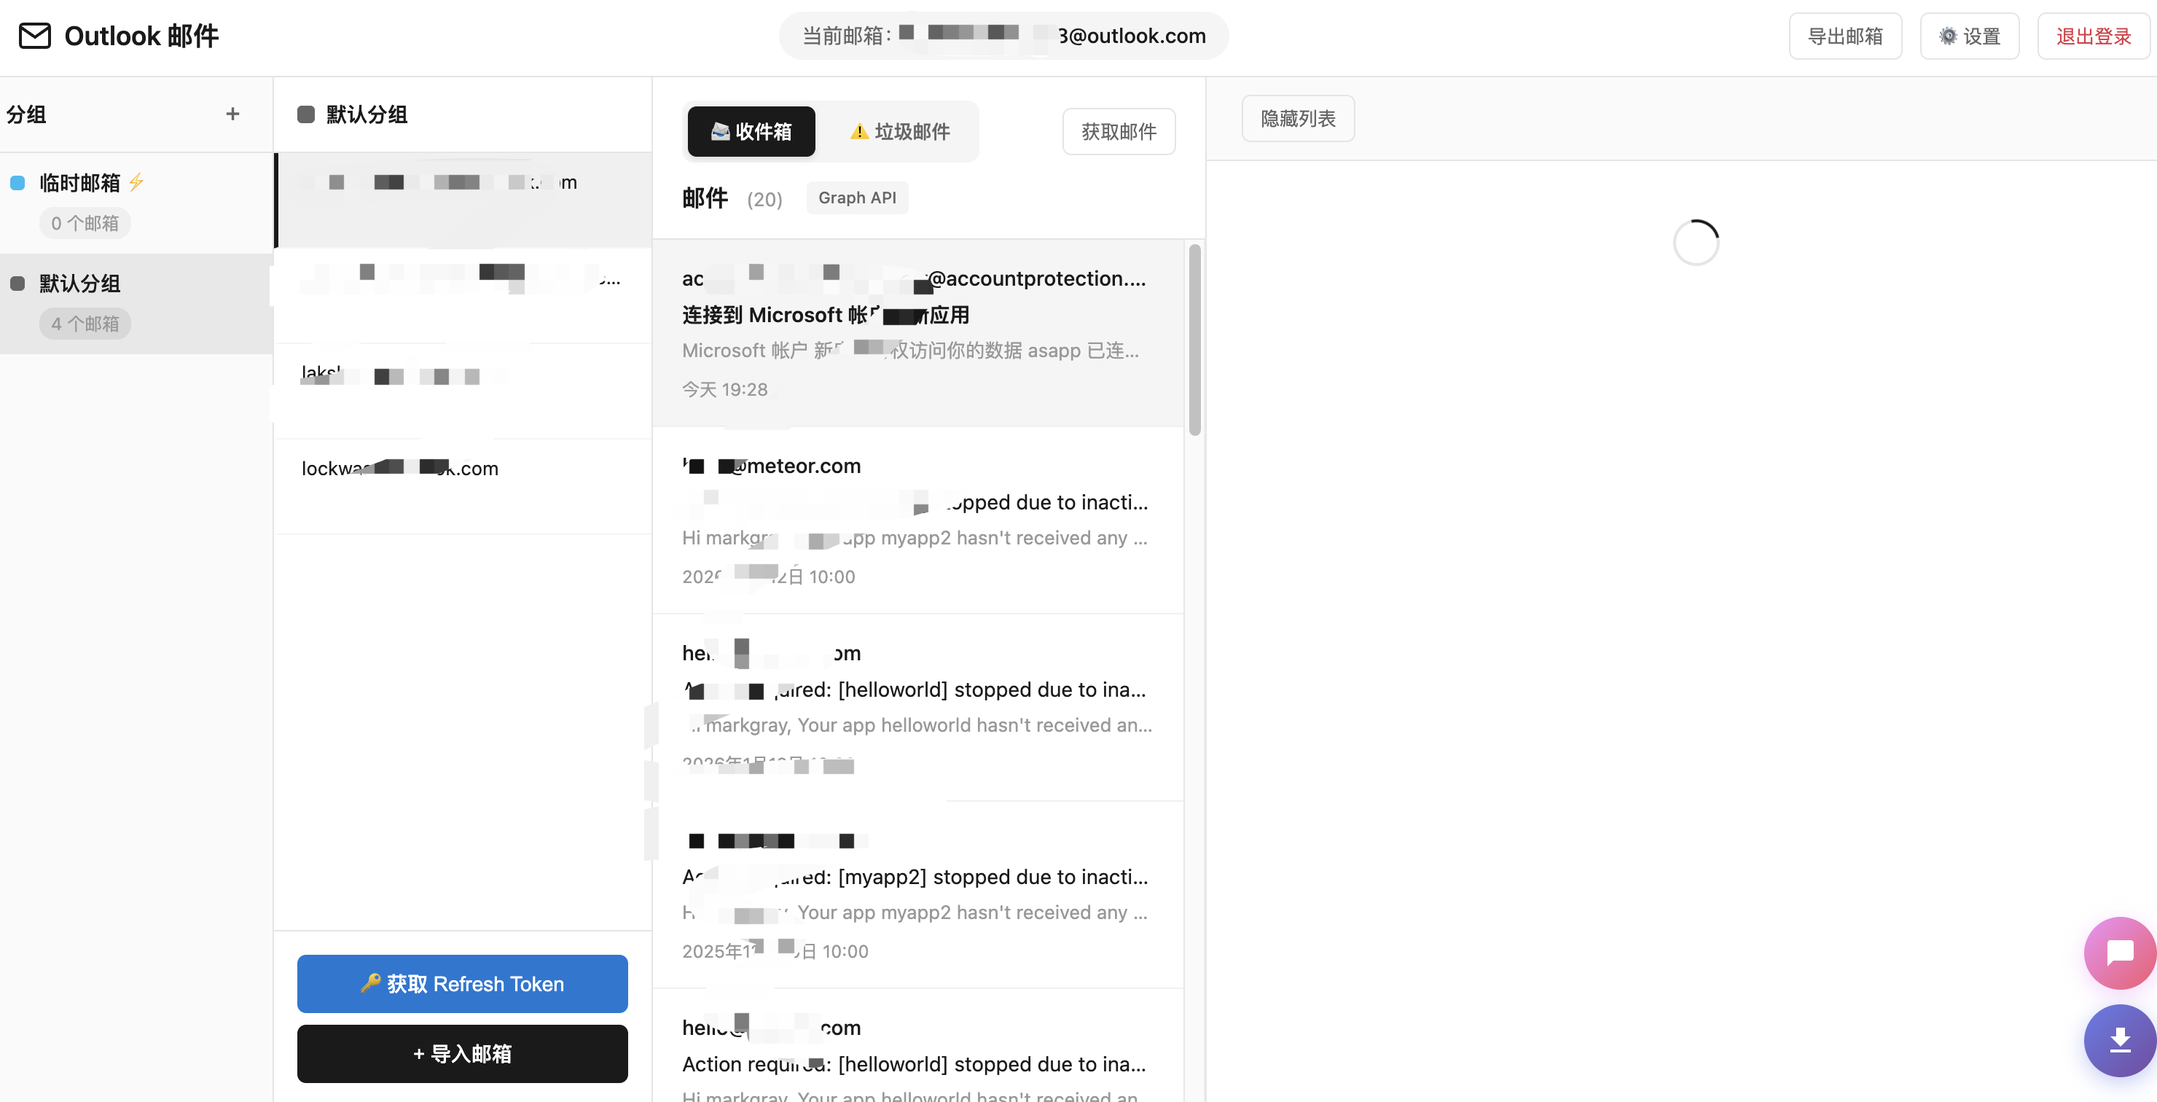
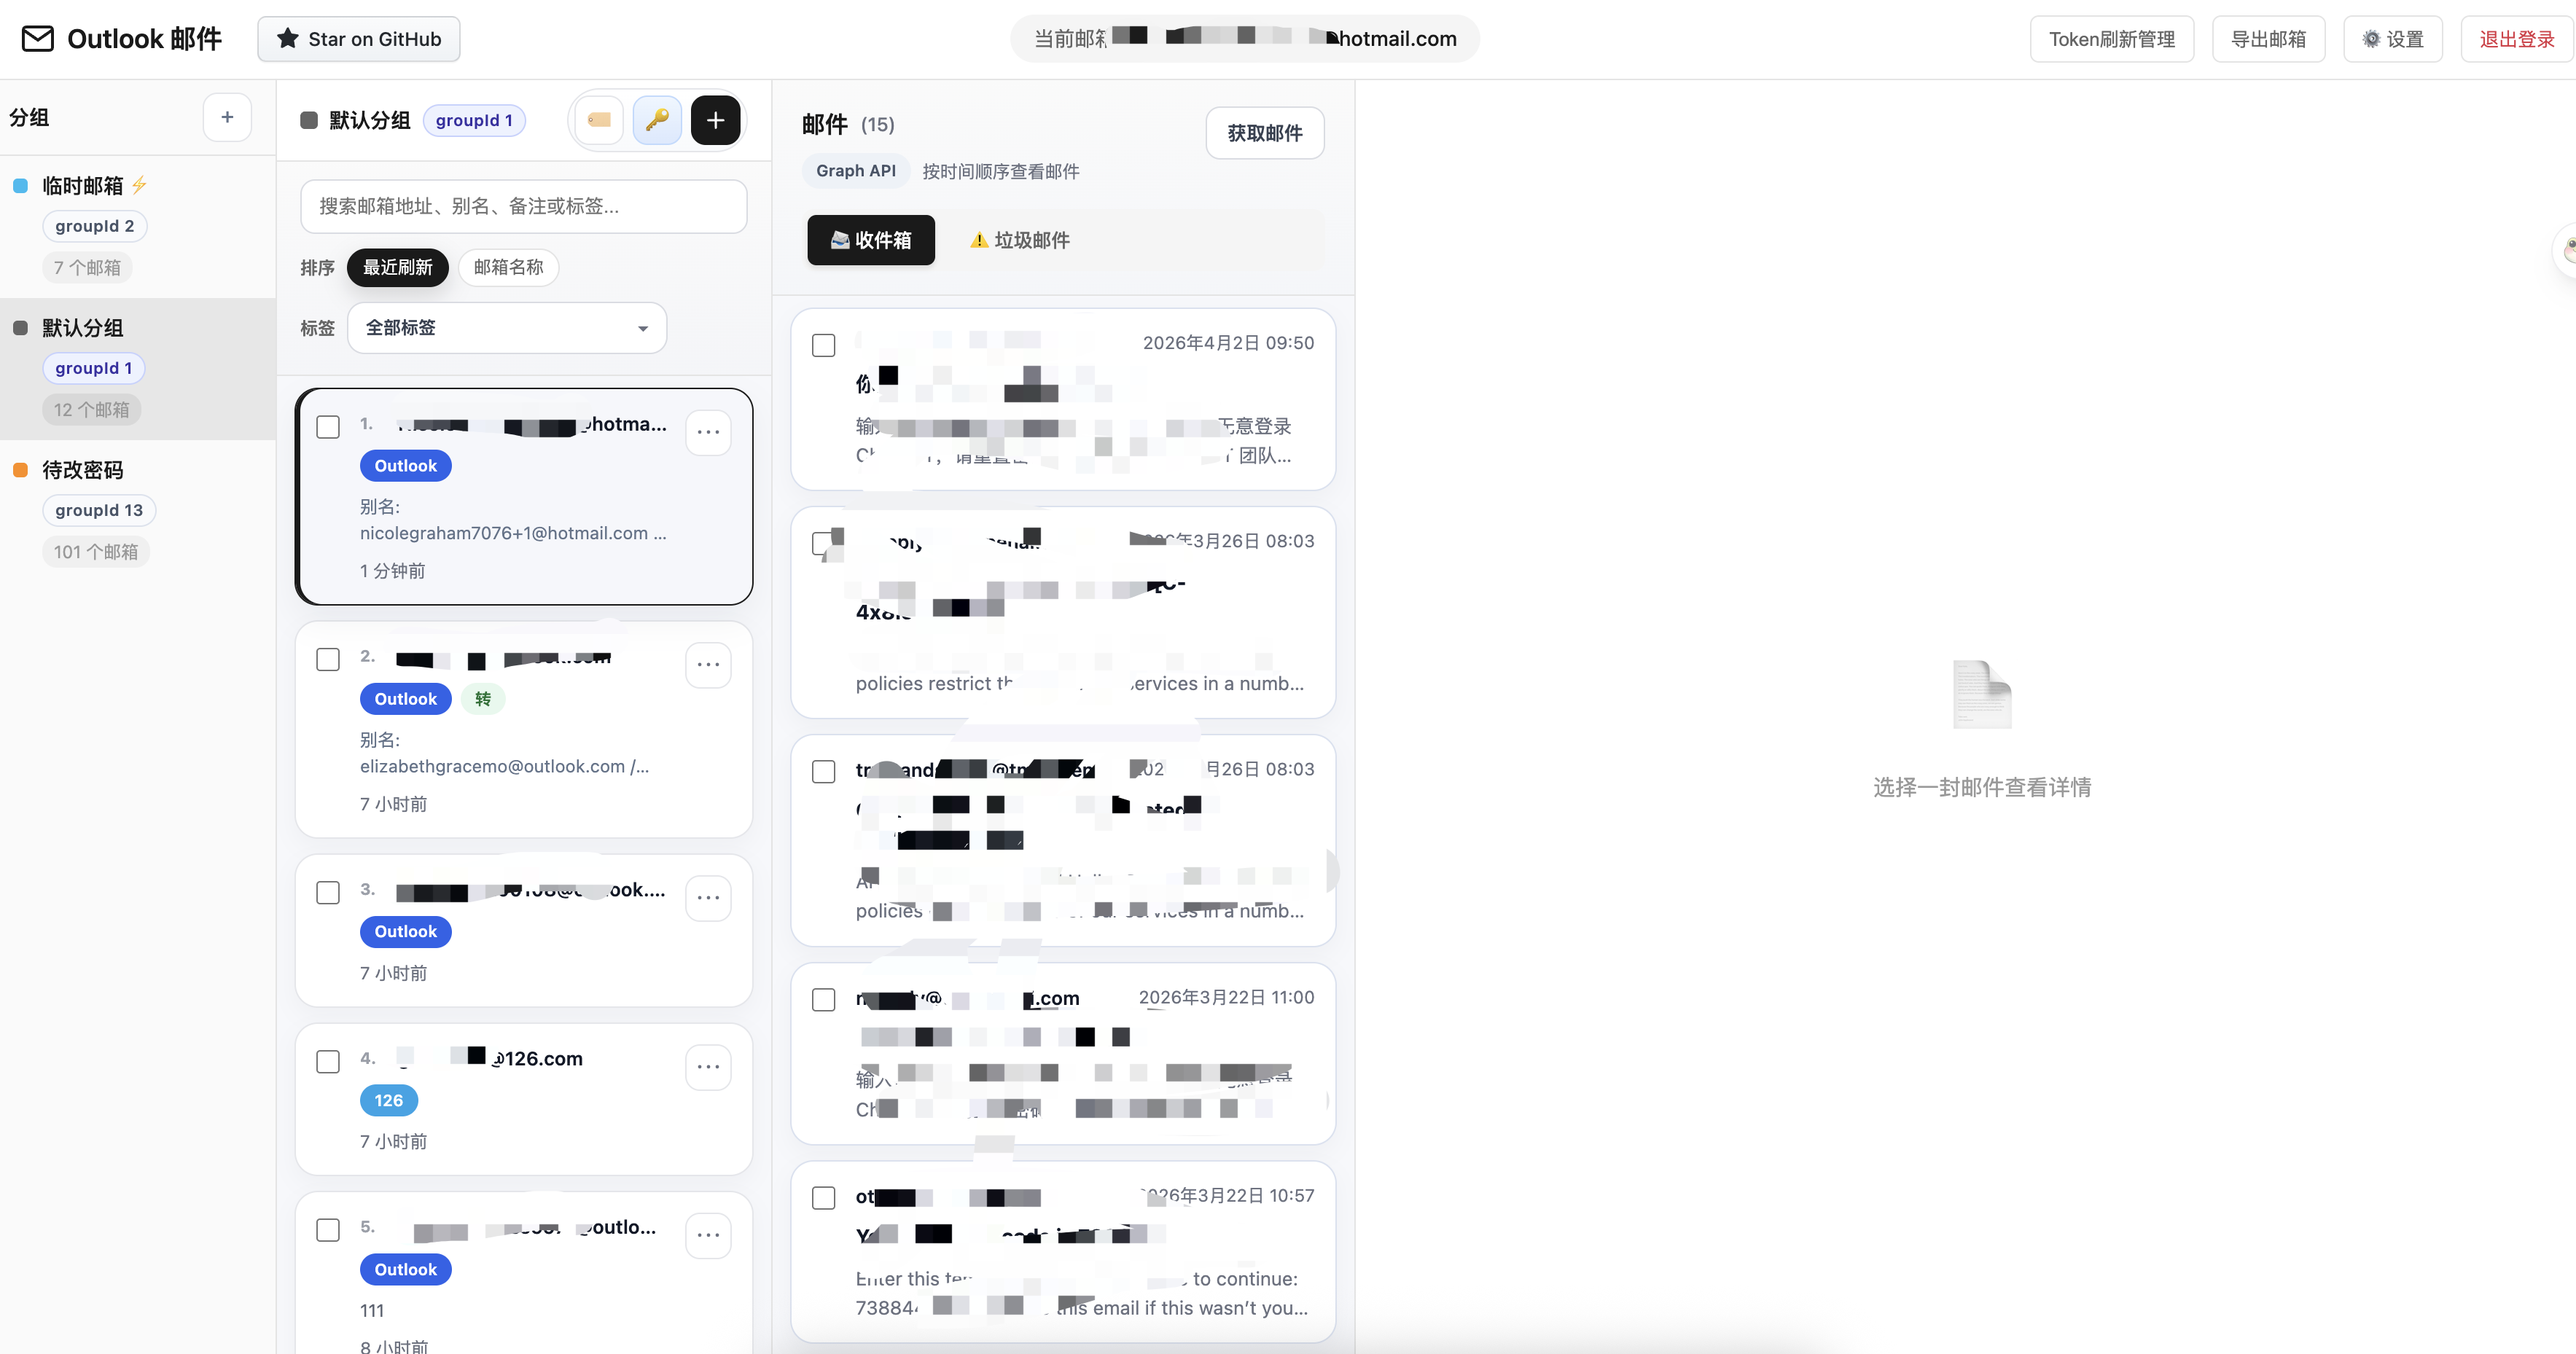
Update documentation

diff --git a/README.md b/README.md
@@ -168,14 +168,14 @@ docker-compose up -d
 
 ## 📖 使用说明
 
-### 1. 获取 OAuth2 凭证
+### 1. 获取 OAuth2 凭证（这一步非必须，买的账号如果是带令牌的可以跳过这一步）
 
 要使用本工具，您需要获取以下 OAuth2 凭证：
 
 1. **Client ID** - Microsoft Azure 应用注册的客户端 ID
 2. **Refresh Token** - OAuth2 刷新令牌
 
-#### 步骤 1：注册 Azure 应用
+#### 步骤 1：注册 Azure 应用（这一步看目前的情况得E3 或者 E5 或者其他的开发者账号才能创建）
 
 访问 [Azure Portal](https://portal.azure.com/)，进入「应用注册」：
 
